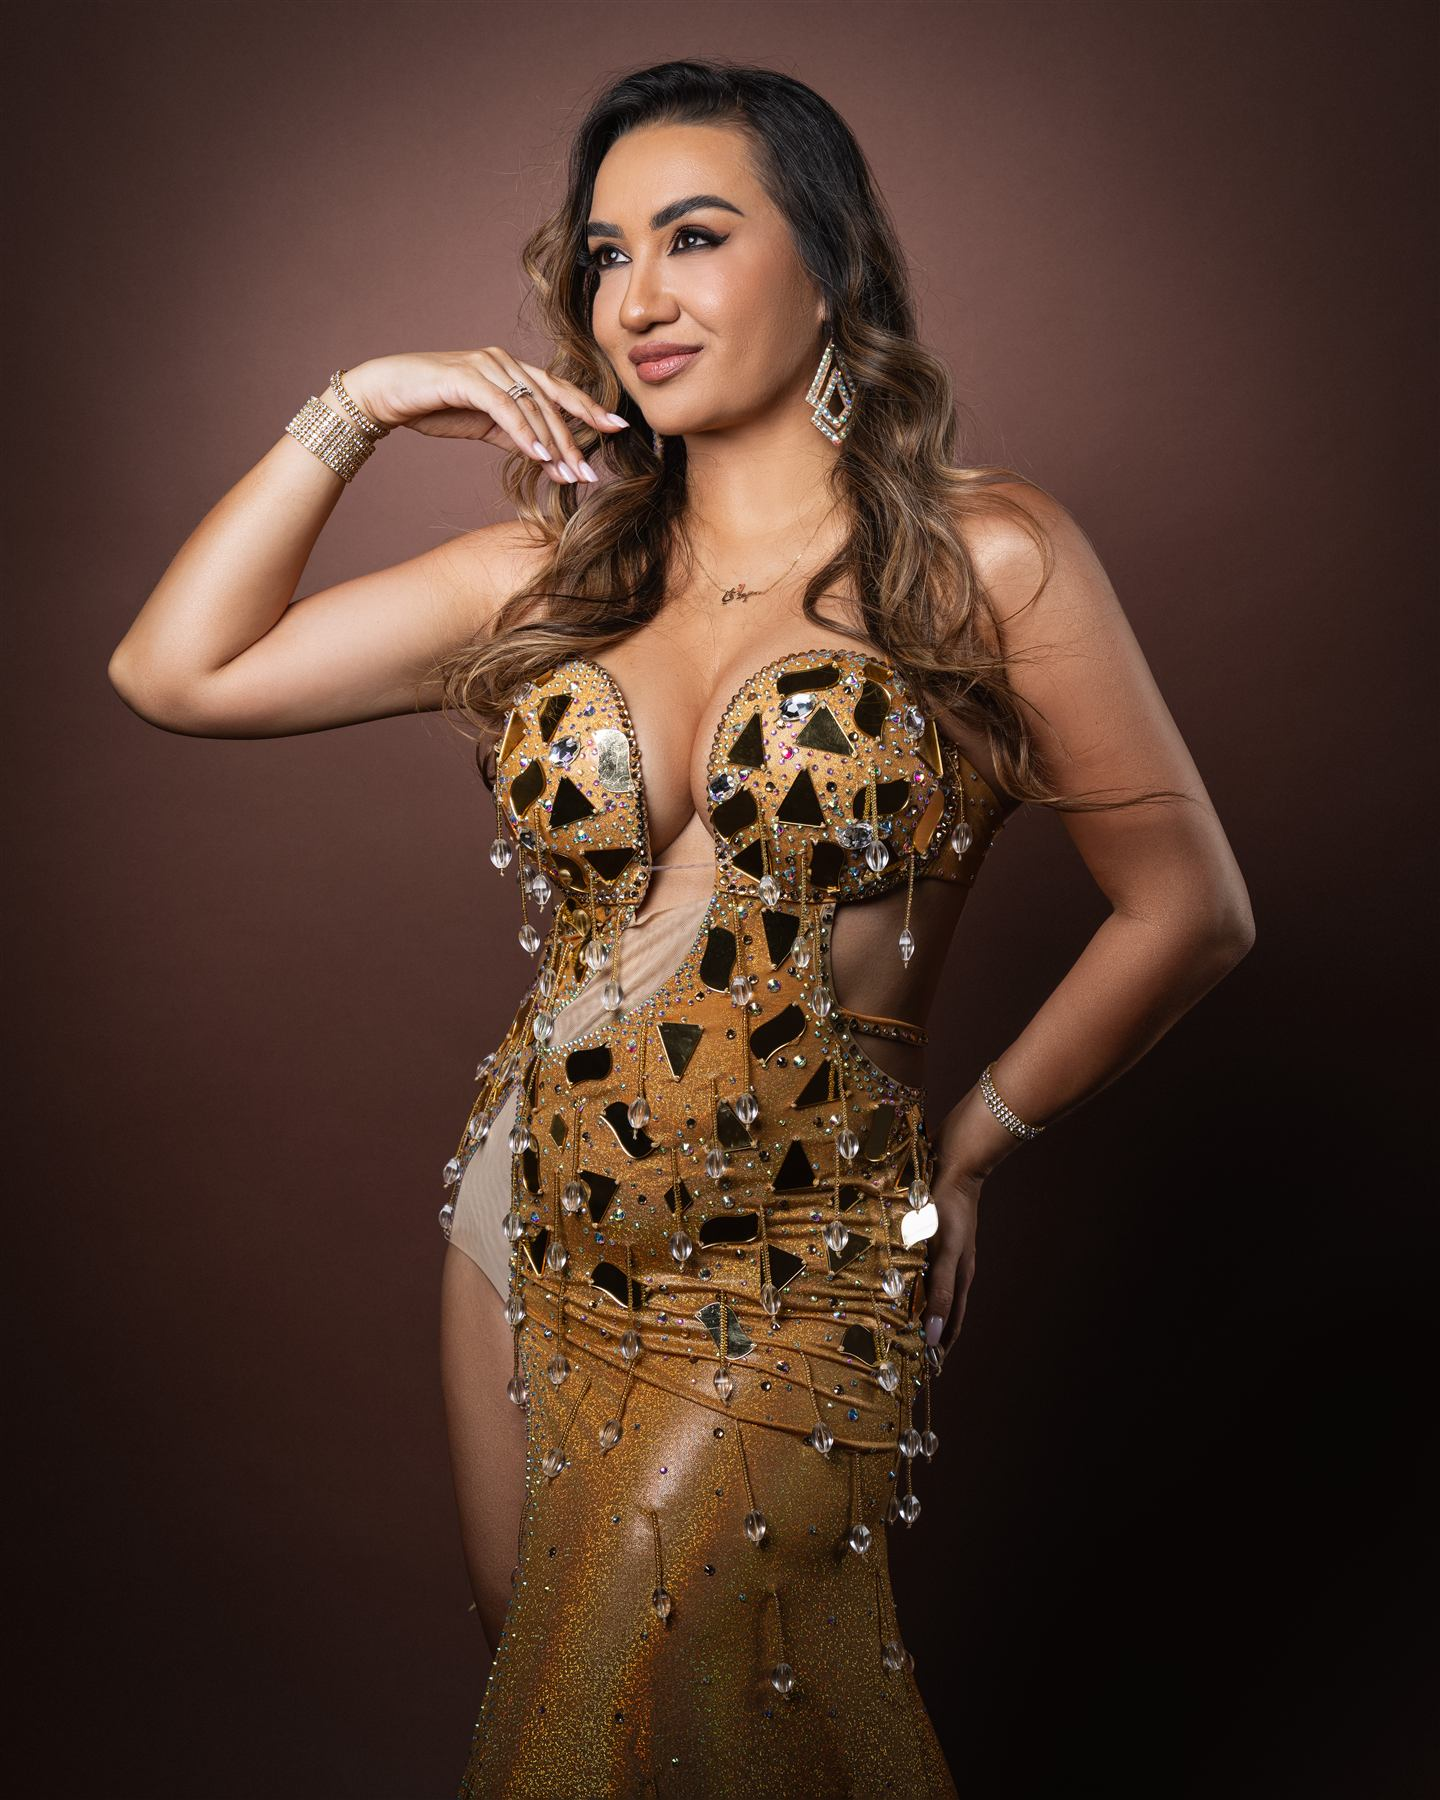
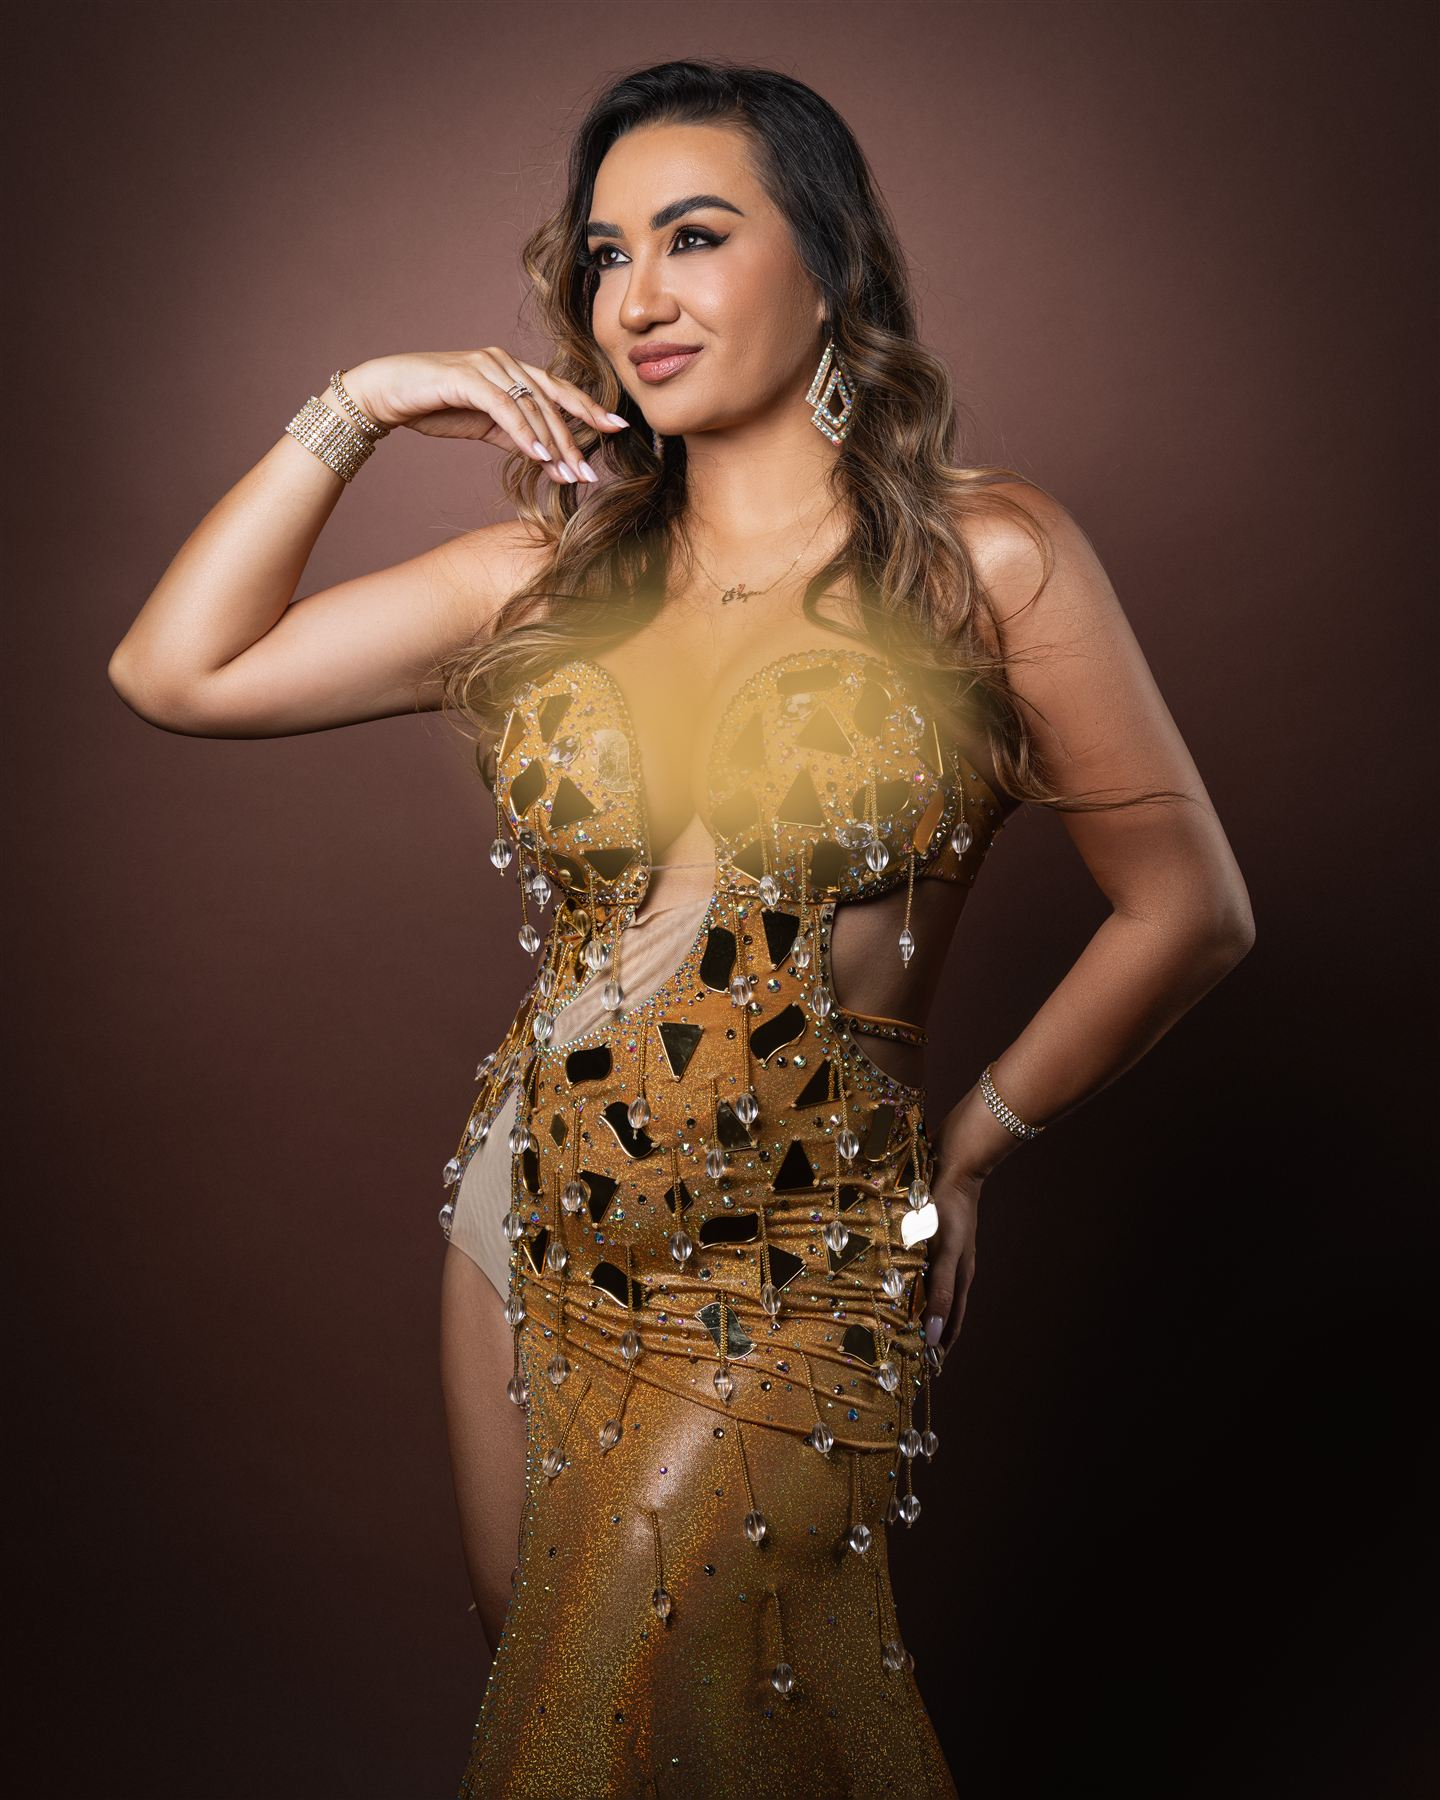
Bake gold glow into the hero photo instead of a CSS overlay
The CSS/SVG overlay was positioned relative to the section's full height,
which differs from the visible viewport on mobile Safari (100vh quirk),
so the glow drifted down onto the body text instead of staying on the
photo. Painting it directly onto the image pixels keeps it perfectly
aligned with the chest area regardless of viewport or cropping.

Claude-Session: https://claude.ai/code/session_013HaAnobFALWfN1oEjfUWNN

Changed region(s): [[0.3125, 0.28, 0.6875, 0.4978]]

diff --git a/index.html b/index.html
@@ -44,8 +44,6 @@ body{background:var(--white);color:var(--text);font-family:'DM Sans',sans-serif;
 .hero-bg-full{position:absolute;inset:0;background-size:cover;background-position:center 20%;animation:slowzoom 22s ease-out both}
 @keyframes slowzoom{from{transform:scale(1)}to{transform:scale(1.08)}}
 .hero-overlay{position:absolute;inset:0;background:linear-gradient(0deg,rgba(20,8,15,.94) 0%,rgba(42,17,33,.6) 45%,rgba(42,17,33,.3) 72%,rgba(74,32,56,.15) 100%)}
-.hero-light{position:absolute;top:0;left:0;right:0;height:100vh;z-index:1;pointer-events:none;overflow:hidden}
-.hero-light svg{position:absolute;inset:0;width:100%;height:100%}
 .hero-left{position:relative;z-index:2;padding:6rem 6vw 5rem;max-width:640px}
 .hero-intro{color:var(--o2);font-size:.9rem;font-style:italic;display:block;margin-bottom:.6rem}
 .hero-name{font-family:'Abril Fatface',serif;font-size:clamp(3.2rem,8vw,6rem);line-height:.95;color:#fff}
@@ -206,33 +204,6 @@ body{background:var(--white);color:var(--text);font-family:'DM Sans',sans-serif;
 <section class="hero-bio">
   <div class="hero-bg-full" style="background-image:url('/images/jiji-hero.jpg')"></div>
   <div class="hero-overlay"></div>
-  <div class="hero-light">
-    <svg viewBox="0 0 100 100" preserveAspectRatio="none" xmlns="http://www.w3.org/2000/svg">
-      <defs>
-        <linearGradient id="goldRibbon" x1="0%" y1="0%" x2="100%" y2="60%">
-          <stop offset="0%" stop-color="#A8841E" stop-opacity="0"/>
-          <stop offset="22%" stop-color="#D9A64A" stop-opacity=".82"/>
-          <stop offset="50%" stop-color="#C9974A" stop-opacity=".9"/>
-          <stop offset="78%" stop-color="#A8841E" stop-opacity=".8"/>
-          <stop offset="100%" stop-color="#A8841E" stop-opacity="0"/>
-        </linearGradient>
-        <radialGradient id="goldVeil" cx="50%" cy="50%" r="50%">
-          <stop offset="0%" stop-color="#C9974A" stop-opacity=".5"/>
-          <stop offset="60%" stop-color="#A8841E" stop-opacity=".28"/>
-          <stop offset="100%" stop-color="#A8841E" stop-opacity="0"/>
-        </radialGradient>
-        <filter id="goldBlur" x="-60%" y="-60%" width="220%" height="220%">
-          <feGaussianBlur stdDeviation="1.4"/>
-        </filter>
-      </defs>
-      <ellipse cx="50" cy="61" rx="22" ry="13" fill="url(#goldVeil)"/>
-      <g filter="url(#goldBlur)" fill="none" stroke-linecap="round">
-        <path d="M31,53 C39,49 45,57 51,53 C58,48 63,56 71,52" stroke="url(#goldRibbon)" stroke-width="6.5"/>
-        <path d="M29,60 C38,64 44,57 52,62 C59,66 65,59 73,63" stroke="url(#goldRibbon)" stroke-width="8"/>
-        <path d="M32,67 C41,71 47,65 55,69" stroke="url(#goldRibbon)" stroke-width="6"/>
-      </g>
-    </svg>
-  </div>
   <div class="hero-left">
     <span class="hero-intro">hello, i'm</span>
     <h1 class="hero-name">JIJI</h1>
